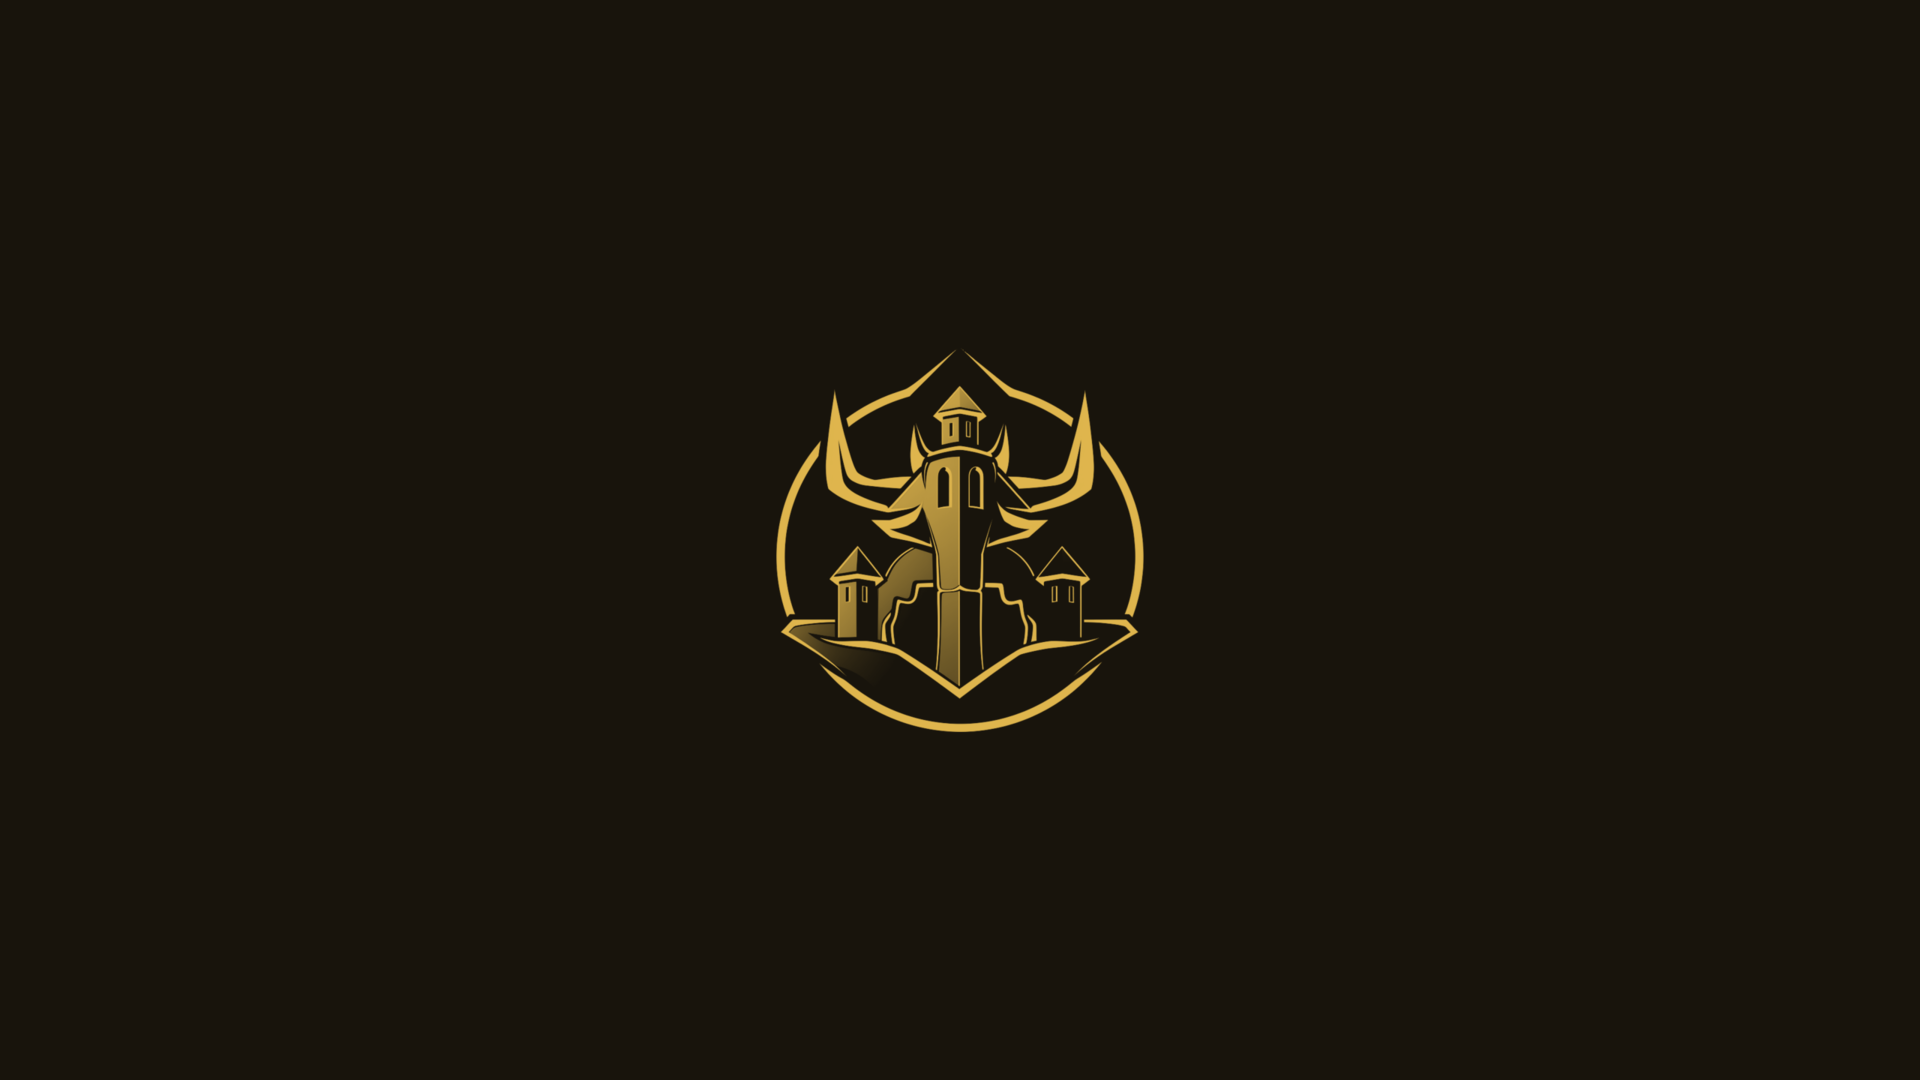
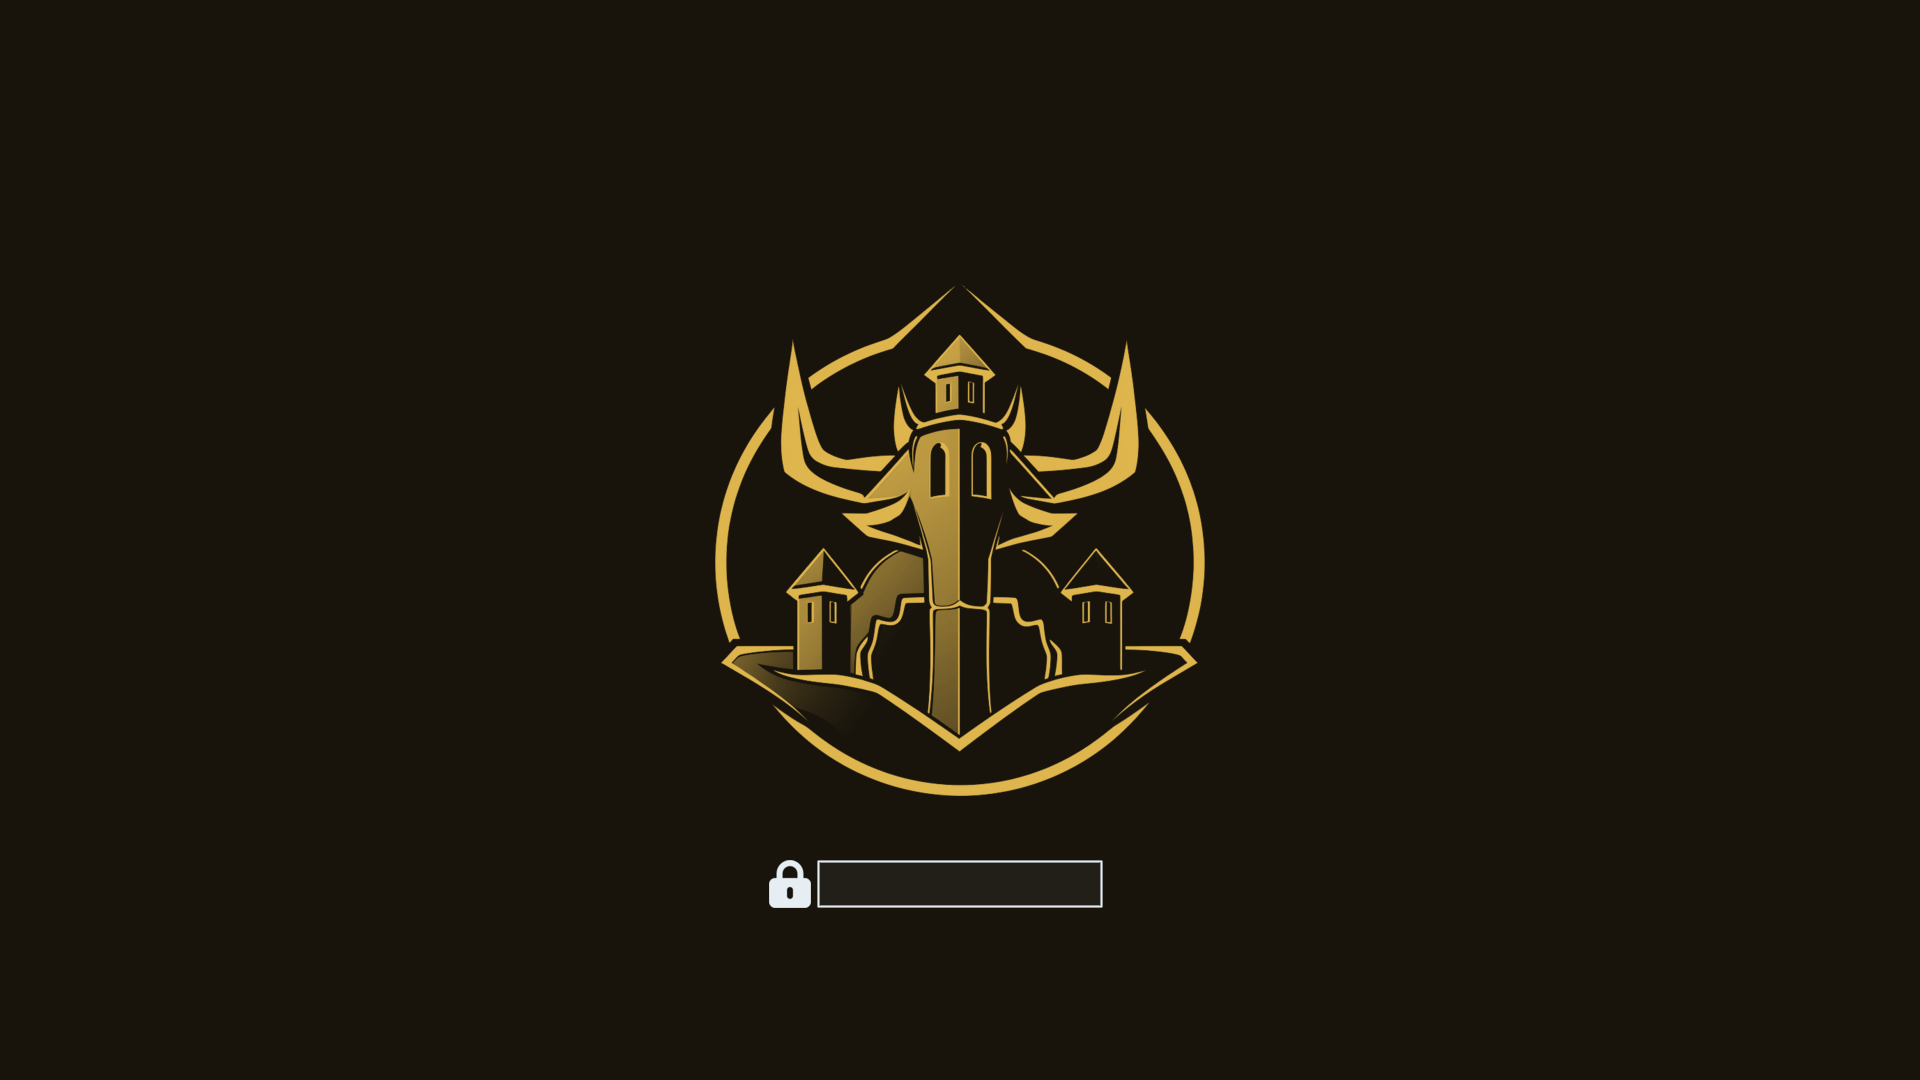
Let the README image move, and put the password box back on the unlock preview
A still cannot show the one thing this theme is built around. The README
image is now a looping render of the comets travelling the circuit.

tools/make-preview-anim.py draws it from make-wallpaper.py's own trace table
and layer taper rather than restating either, so the motion is the geometry
the shell plugin animates and not an impression of it. Each comet completes
a whole number of trips across the clip, so the loop closes on itself; the
seam measures no larger than an ordinary frame step. 48 frames, 1200x675,
390 KB. Deliberately a render and not a screen capture: a capture bakes in
whatever the compositor and the moment happened to do, and nobody can
regenerate it.

To share one definition of the comet taper between the two tools, the layer
table moves out of draw_comets into a module constant. Byte-identical
output either side of that move.

preview-unlock.png was drawing the logo about a quarter too small and
omitted the password field every stock preview shows, so the Style > Unlock
picker advertised a screen that was not the one it selected. Rebuilt the way
Omarchy builds its own: logo at native size centred, lock and entry forty
pixels beneath it, both tinted with the theme's foreground the way
omarchy-plymouth-set tints them at boot. Verified by reconstructing a stock
theme's preview first and matching its content box exactly.

Claude-Session: https://claude.ai/code/session_01MuuDa1yiitasMbVq7xHuwL

Changed region(s): [[0.375, 0.275, 0.625, 0.7333], [0.4062, 0.7944, 0.4375, 0.8556]]

diff --git a/tools/make-preview-anim.py b/tools/make-preview-anim.py
@@ -1,0 +1,180 @@
+#!/usr/bin/env python3
+"""
+Render the looping comet animation used as the theme's preview.
+
+The still wallpaper cannot show the one thing the theme is built around, so the
+README image moves. This draws the same comets the shell plugin animates -- same
+twelve traces, same four-layer taper, same accent -- and advances them along the
+circuit by hand, one frame at a time.
+
+    ./make-preview-anim.py                          # ships-with default
+    ./make-preview-anim.py --frames 72 --comets 24  # denser, smoother
+
+Requires ImageMagick 7 (`magick`). No browser, no fonts, no network.
+
+WHY NOT A SCREEN RECORDING
+--------------------------
+A capture of the live plugin would be honest but unreproducible: it bakes in
+whatever the compositor, the monitor and the moment happened to do. This reads
+the trace table straight out of Background.qml's twin in make-wallpaper.py, so
+the motion is the plugin's own geometry and anyone can regenerate it.
+
+LOOPING
+-------
+Each comet completes a whole number of trips over the clip, so the last frame
+hands back to the first with nothing to blend. Comets are given different trip
+counts to keep them from marching in lockstep.
+"""
+
+import argparse
+import importlib.util
+import os
+import shutil
+import subprocess
+import sys
+import tempfile
+
+HERE = os.path.dirname(os.path.abspath(__file__))
+
+# make-wallpaper.py owns the trace table, the layer taper and the palette. Load
+# it rather than restating any of it -- a comet that drifts off the drawn circuit
+# because the two copies disagreed is exactly the bug this avoids.
+_spec = importlib.util.spec_from_file_location(
+    "mw", os.path.join(HERE, "make-wallpaper.py"))
+mw = importlib.util.module_from_spec(_spec)
+_spec.loader.exec_module(mw)
+
+REFERENCE_WIDTH = 3840.0   # the width the trace geometry is authored against
+
+
+def die(msg):
+    print("error: " + msg, file=sys.stderr)
+    sys.exit(1)
+
+
+def build_comets(count, seed, width, height, scale):
+    """Pick each comet's trace, its tile on the grid, and its phase and speed."""
+    import random
+    rng = random.Random(seed)
+    step = mw.TILE_UNITS * mw.PATTERN_SCALE * scale
+    cols, rows = int(width // step) + 1, int(height // step) + 1
+
+    comets = []
+    for i in range(count):
+        pts = mw.polyline(mw.TRACES[rng.randrange(len(mw.TRACES))])
+        ox = rng.randrange(cols) * mw.TILE_UNITS
+        oy = rng.randrange(rows) * mw.TILE_UNITS
+        pts = [((x + ox) * mw.PATTERN_SCALE * scale,
+                (y + oy) * mw.PATTERN_SCALE * scale) for x, y in pts]
+        total = sum(abs(pts[j + 1][0] - pts[j][0]) + abs(pts[j + 1][1] - pts[j][1])
+                    for j in range(len(pts) - 1))
+        if total <= 0:
+            continue
+        # Whole trips only, or the loop seams. Two thirds run at single speed.
+        trips = 1 if i % 3 else 2
+        comets.append({"pts": pts, "total": total,
+                       "phase": rng.random(), "trips": trips})
+    return comets
+
+
+def draw_frame(tmp, base, width, height, comets, t, scale, out):
+    """One frame: the four taper layers, screened over the still background."""
+    stage = base
+    for idx, (colour, w, op, blur, lit_frac) in enumerate(mw.LAYERS):
+        sw = max(1.0, w * scale)
+        cmd = ["magick", "-size", "%dx%d" % (width, height), "xc:none",
+               "-stroke", colour, "-strokewidth", "%.2f" % sw, "-fill", "none"]
+        drew = False
+        for c in comets:
+            head = ((t * c["trips"]) + c["phase"]) % 1.0 * c["total"]
+            seg = mw.subpath(c["pts"], max(0.0, head - lit_frac * c["total"]), head)
+            if len(seg) < 2:
+                continue
+            cmd += ["-draw", "polyline " + " ".join("%.1f,%.1f" % q for q in seg)]
+            drew = True
+        if not drew:
+            continue
+        lay = os.path.join(tmp, "lay%d.png" % idx)
+        if blur:
+            cmd += ["-blur", "0x%.1f" % max(1.0, blur * scale)]
+        cmd += ["-alpha", "set", "-channel", "A", "-evaluate", "multiply",
+                str(op), "+channel", lay]
+        mw.run(cmd)
+        nxt = os.path.join(tmp, "st%d.png" % idx)
+        mw.run(["magick", stage, lay, "-compose", "Screen", "-composite", nxt])
+        stage = nxt
+    if stage is base:
+        shutil.copy(base, out)
+    else:
+        shutil.move(stage, out)
+
+
+def main():
+    ap = argparse.ArgumentParser(
+        description="Render the looping comet preview animation.")
+    ap.add_argument("--background", default=os.path.join(
+        HERE, os.pardir, "backgrounds", "01-circuit-4k.png"),
+        help="still to animate over (default: the shipped wallpaper)")
+    ap.add_argument("--size", default="1200x675", help="output size")
+    ap.add_argument("--supersample", type=int, default=2, metavar="N",
+                    help="draw at N x size then downscale, for clean thin strokes")
+    ap.add_argument("--comets", type=int, default=18, metavar="N")
+    ap.add_argument("--frames", type=int, default=48, metavar="N")
+    ap.add_argument("--fps", type=int, default=24)
+    ap.add_argument("--quality", type=int, default=72, help="webp quality")
+    ap.add_argument("--seed", type=int, default=3)
+    ap.add_argument("-o", "--out", default="preview-anim.webp")
+    a = ap.parse_args()
+
+    if not shutil.which("magick"):
+        die("ImageMagick 7 (magick) is required")
+    if not os.path.isfile(a.background):
+        die("background not found: " + a.background)
+    if not 1 <= a.comets <= 48:
+        die("--comets must be between 1 and 48")
+    if not 2 <= a.frames <= 240:
+        die("--frames must be between 2 and 240")
+    if not 1 <= a.supersample <= 4:
+        die("--supersample must be between 1 and 4")
+
+    m = mw.re.fullmatch(r"(\d+)x(\d+)", a.size)
+    if not m:
+        die("--size must look like 1200x675")
+    W, H = int(m.group(1)), int(m.group(2))
+    SW, SH = W * a.supersample, H * a.supersample
+    scale = SW / REFERENCE_WIDTH
+
+    comets = build_comets(a.comets, a.seed, SW, SH, scale)
+    if not comets:
+        die("no comets placed; try a larger --size")
+
+    with tempfile.TemporaryDirectory() as tmp:
+        base = os.path.join(tmp, "base.png")
+        mw.run(["magick", a.background, "-resize", "%dx%d!" % (SW, SH), base])
+
+        frames = []
+        for f in range(a.frames):
+            raw = os.path.join(tmp, "raw%03d.png" % f)
+            draw_frame(tmp, base, SW, SH, comets, f / float(a.frames), scale, raw)
+            small = os.path.join(tmp, "f%03d.png" % f)
+            mw.run(["magick", raw, "-resize", "%dx%d!" % (W, H), "-strip", small])
+            os.remove(raw)
+            frames.append(small)
+            sys.stderr.write("\r  frame %d/%d" % (f + 1, a.frames))
+            sys.stderr.flush()
+        sys.stderr.write("\n")
+
+        delay = max(1, round(100.0 / a.fps))
+        mw.run(["magick", "-delay", str(delay), "-loop", "0"] + frames +
+               ["-define", "webp:lossless=false",
+                "-define", "webp:method=6",
+                "-define", "webp:auto-filter=true",
+                "-quality", str(a.quality), a.out])
+
+    size = os.path.getsize(a.out)
+    print("wrote %s (%dx%d, %d frames, %.1f KB)"
+          % (a.out, W, H, a.frames, size / 1024.0))
+
+
+if __name__ == "__main__":
+    main()

diff --git a/tools/make-wallpaper.py b/tools/make-wallpaper.py
@@ -55,6 +55,12 @@ GRAD_INNER, GRAD_MID, GRAD_OUTER = "#211b10", "#18140c", "#0d0c07"
 TILE_UNITS = 320          # circuit-pattern.svg viewBox
 PATTERN_SCALE = 1.4       # 320 * 1.4 = 448px tile at 4K; matches the site at 1x
 
+# One comet, drawn four times: a wide dim tail that the next three narrow onto,
+# ending in a near-white head. Widths are in pixels at 4K and scale from there.
+# (colour, strokewidth, opacity, blur, lit fraction of the trace)
+LAYERS = [("#a8842f", 14, 0.16, 6, 0.48), ("#e0b64d", 7, 0.40, 2, 0.32),
+          ("#f2c14e", 4, 0.90, 0, 0.16), ("#fff7e6", 3, 1.00, 0, 0.08)]
+
 TRACES = [
     "M0,60 L80,60 L80,90 L160,90 L160,60 L240,60 L240,30 L320,30",
     "M0,180 L40,180 L40,150 L130,150 L130,180 L210,180 L210,210 L320,210",
@@ -289,8 +295,6 @@ def draw_comets(tmp, base, width, height, count, seed):
     rng = random.Random(seed)
     step = TILE_UNITS * PATTERN_SCALE
     cols, rows = int(width // step) + 1, int(height // step) + 1
-    layers = [("#a8842f", 14, 0.16, 6, 0.48), ("#e0b64d", 7, 0.40, 2, 0.32),
-              ("#f2c14e", 4, 0.90, 0, 0.16), ("#fff7e6", 3, 1.00, 0, 0.08)]
 
     picks = []
     for _ in range(count):
@@ -302,7 +306,7 @@ def draw_comets(tmp, base, width, height, count, seed):
         picks.append((pts, total, rng.uniform(0.35, 0.95) * total))
 
     out = base
-    for colour, w, op, blur, lit_frac in layers:
+    for colour, w, op, blur, lit_frac in LAYERS:
         cmd = ["magick", "-size", "%dx%d" % (width, height), "xc:none",
                "-stroke", colour, "-strokewidth", str(w), "-fill", "none"]
         drew = False
